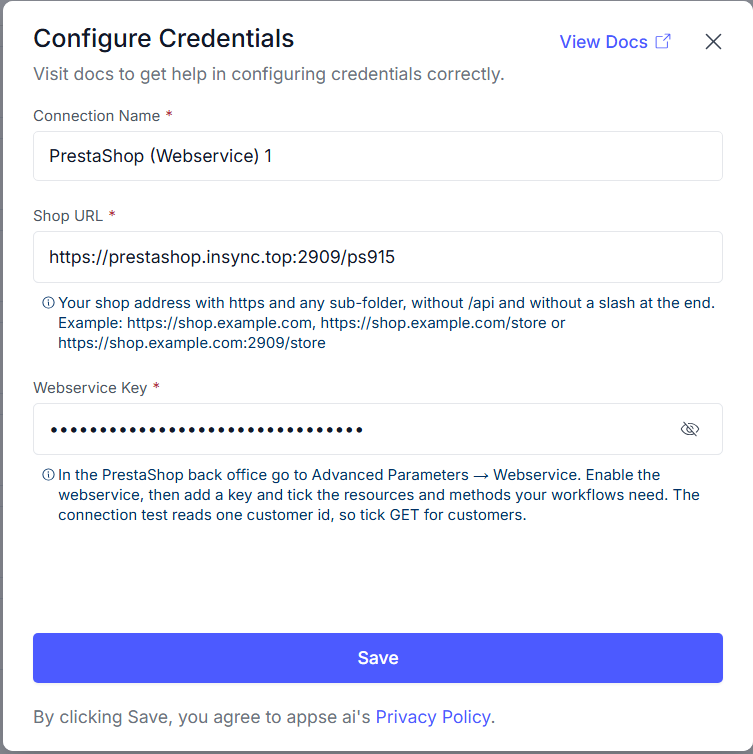
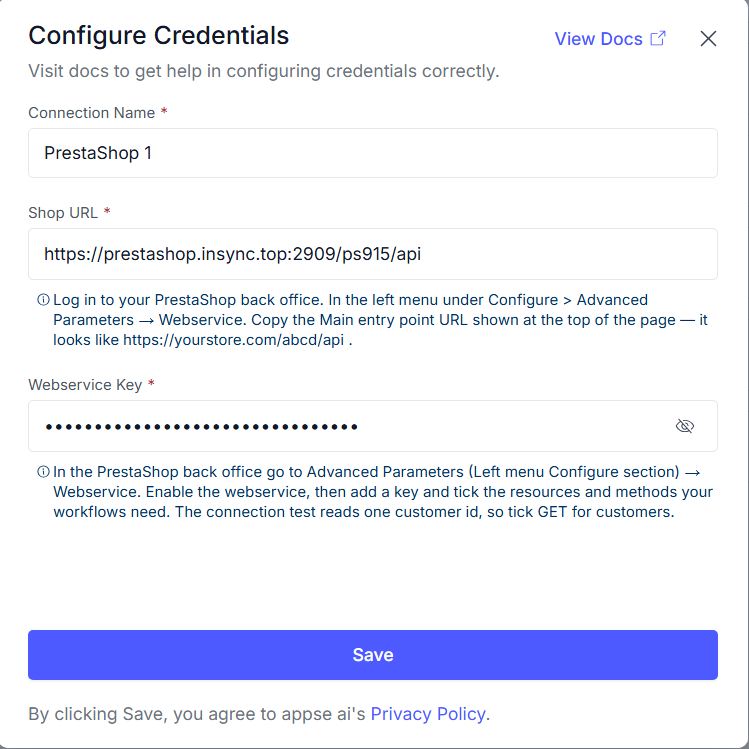
The Admin API link breaks the production build. The info block links to /app-integrations/prestashop/ as the Admin API guide. This PR moves the page to /app-integrations/prestashop-webservice/ and removes the Admin API content, so nothing serves that URL. Please check the broken link and remove the 
The /api instruction contradicts the credential form.
Required Fields and Step 7 say to paste the Main entry point “including /api”. The credential form in this page’s own screenshot says “without /api and without a slash at the end”, and its Shop URL has no /api. PrestaShop shows …/ps915/api, and the form shows …/ps915. Please make the text match the form: copy the Main entry point and remove the trailing /api.

diff --git a/docs/app_integrations/prestashop.md b/docs/app_integrations/prestashop.md
@@ -11,7 +11,7 @@ This guide explains how to configure a PrestaShop credential in appse ai using t
 
 :::info
 
-The **Webservice API** (Advanced Parameters → Webservice) is PrestaShop's original REST API, secured with a single key sent as a query parameter. It is **not** the same as the newer [**Admin API**](/app-integrations/prestashop/), which uses OAuth 2.0 client credentials. This guide covers the Webservice key — if your store uses an API Client with a Client ID and Client Secret instead, see the Admin API guide.
+The **Webservice API** (Advanced Parameters → Webservice) is PrestaShop's original REST API, secured with a single key sent as a query parameter. It is **not** the same as the newer **Admin API**, which uses OAuth 2.0 client credentials. This guide covers the Webservice key.
 
 :::
 
